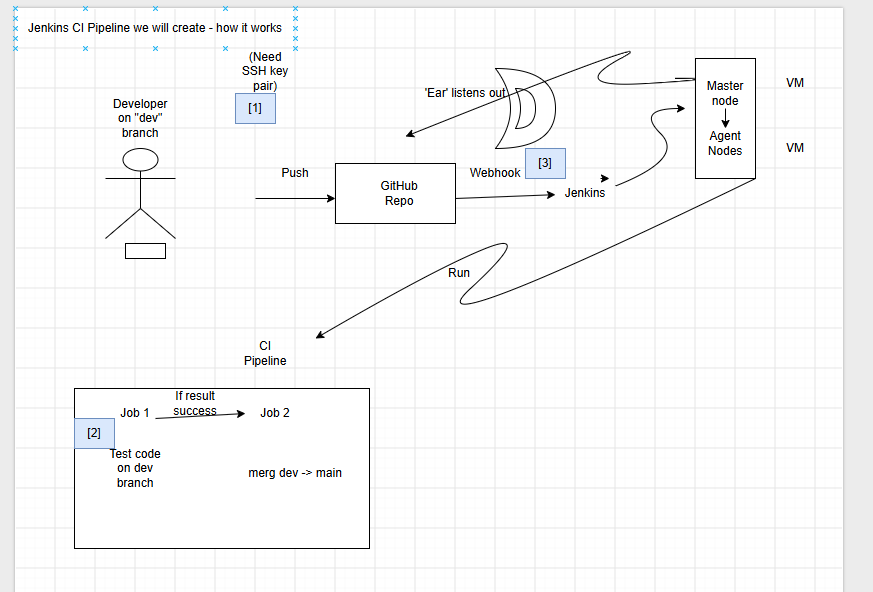
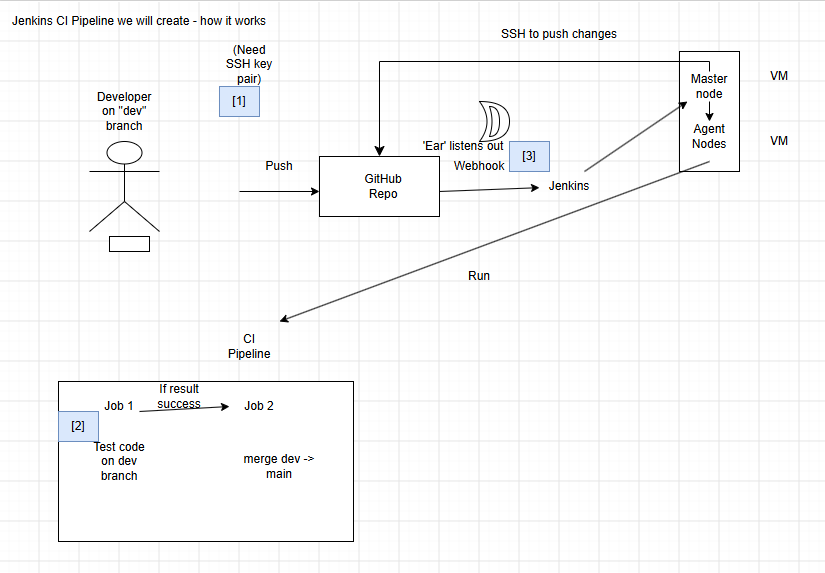
Updated README after feedback

diff --git a/README.md b/README.md
@@ -1,5 +1,13 @@
 # Sparta App - CI Pipeline Documentation (Cameron Wilson)
 
+- [Sparta App - CI Pipeline Documentation (Cameron Wilson)](#sparta-app---ci-pipeline-documentation-cameron-wilson)
+  - [CI Pipeline Diagram](#ci-pipeline-diagram)
+  - [Why we set up the CI Pipeline:](#why-we-set-up-the-ci-pipeline)
+  - [CI Pipeline benefits:](#ci-pipeline-benefits)
+  - [How I set up the jobs:](#how-i-set-up-the-jobs)
+  - [Evidence of success:](#evidence-of-success)
+
+
 This project utilises a two job Jenkins CI pipeline to automate the testing of the dev branch (job 1) and merging of dev to the main branch (job 2). 
 
 ## CI Pipeline Diagram
@@ -18,11 +26,27 @@ By utlising the CI pipeline, we guarantee that every bit of code that is pushed 
 
 ## How I set up the jobs:
 * authentication/security:
-  * We utilise an SSH key pair to keep communication between Jenkins and GitHub is secure. We store the public key on GitHub and the private key within Jenkins, providing access to read/ write. This allows Jenkins to perform job 1 and 2.
+  * We utilise an SSH key pair to keep communication between Jenkins and GitHub is secure. We generate the SSH key pair by doing the following commands:
+   1. Change directory to where we want to store the SSH key pair: cd ~/.ssh
+   2. Created the key pair using the terminal command: ssh-keygen -t ed25519 -a 100 -C "jenkins@spapp-scm-ci"
+  * We store the public key on GitHub (within our repo on GitHub, we go to Settings, Deploy Keys, Add Deploy Key and then paste in the public key and allow the option for write access) and the private key within Jenkins (We create this during the conifguration of job 1 within Source Code management where we link our repository).
 * webhook:
   * We provide GitHub with a webhook to 'listen' for a push to the dev branch, which triggers job 1 in Jenkins, when we configure the job to have a GitHub hook trigger.
-* pipeline triggers:
-  * We have the GitHub trigger for job 1 and job 2 has been configured such that job 2 is initiated after a successful build of job 1.
+  * We set up the webhook by visiting our GitHub repo, Settings, Webhooks, click Add Webhook, insert the ip address of the Jenkins server followed by "/github-webhook/" (e.g. http://52.31.15.176:8080/github-webhook/) and then within job 1, we select the build trigger option "GitHub hook trigger for GITScm polling" in order for the job to trigger when a push is made to the dev branch.
+* We have the following configuration for job 1:
+  
+  1. We select a new item, freestyle project and name it appropriately. 
+  2. Discard any builds that are more than 5 previous, we provide the GitHub project url (https and without ".git" on the end) to link the job to the repo. 
+  3. We next select Git as the option for source code management, where we provide the private SSH key and specify that we are working on the dev branch. As previously mentioned, we select the GitHub hook trigger as the build trigger. 
+  4. We select the build environment option "Provide Node & npm bin/ folder to PATH" and specify the Node.js version utilised. 
+  5. From here we add a build step, "Execute shell", which runs our terminal commands to run the tests on the newly pushed dev branch (cd app, npm install, npm test). These commands change the directory to the app, as we need to be inside the app directory to perform the tests. We perform npm install to initialise Node.js and then the command npm test performs the tests.
+* We have the following configuration for job 2:
+  1. We can either create a new freestyle project or copy from job 1 and make changes accordingly. 
+  2. These are the same: discard any builds that are more than 5 previous, we provide the GitHub project url (https and without ".git" on the end) to link the job to the repo. 
+  3. We next select Git as the option for source code management, where we provide the private SSH key and specify that we are working on the main branch, as we are merging the changes to the main branch. Here we change the build trigger from the webhook to the successful build of job 1 (by selecting the option Build after other projects are built, only if build is stable). 
+  4. We select the build environment option "Provide Node & npm bin/ folder to PATH" and specify the Node.js version utilised. We also select Add SSH agent to provide the job with permission to push to main. 
+  5. From here we add a build step, "Execute shell", which runs our terminal commands to merge the updated dev branch with our main branch (git checkout main, git merge origin/dev, git push origin main). These commands switch to the main branch to allow Jenkins to update it, then merge the code from the dev branch into the main branch, and finally push the updated main branch to GitHub.
+  
 * expected result:
   * We expect the jobs to run succesfully - meaning tests pass, triggering job 2 where the code that is pushed to the dev branch is successfully merged to the main branch.
 
@@ -140,5 +164,8 @@ echo Agent pid 3393 killed;
 [ssh-agent] Stopped.
 Finished: SUCCESS
 ```
+* Screenshot of github to show proof of merge:
+  ![GitHub merge proof](GitHub_Merge_Proof.png)
+  
 * Further evidence:
   This README is within the same repo, so when this was pushed to dev it initiated the pipeline, and was successful since this can be seen within the main branch of the repo.
